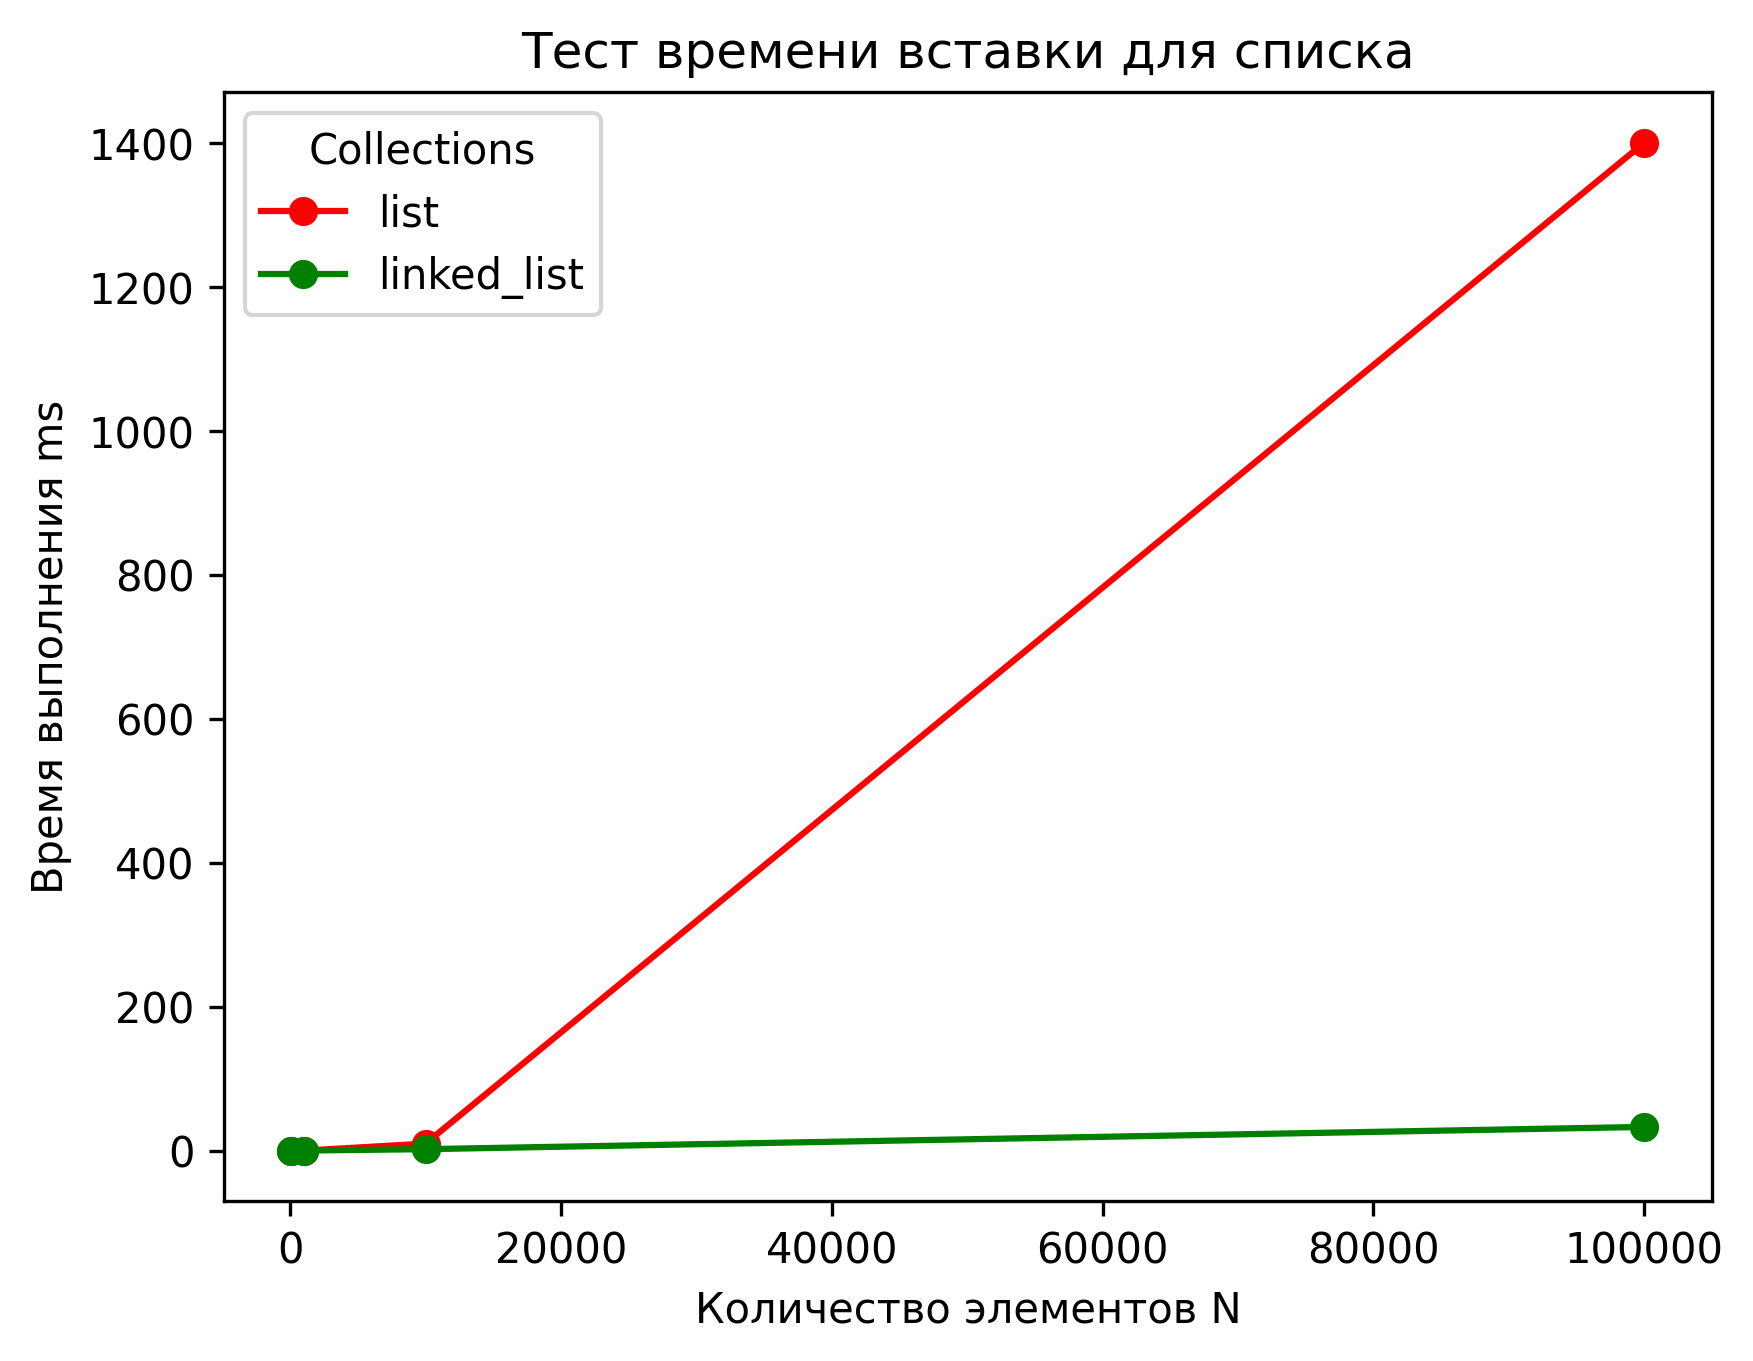
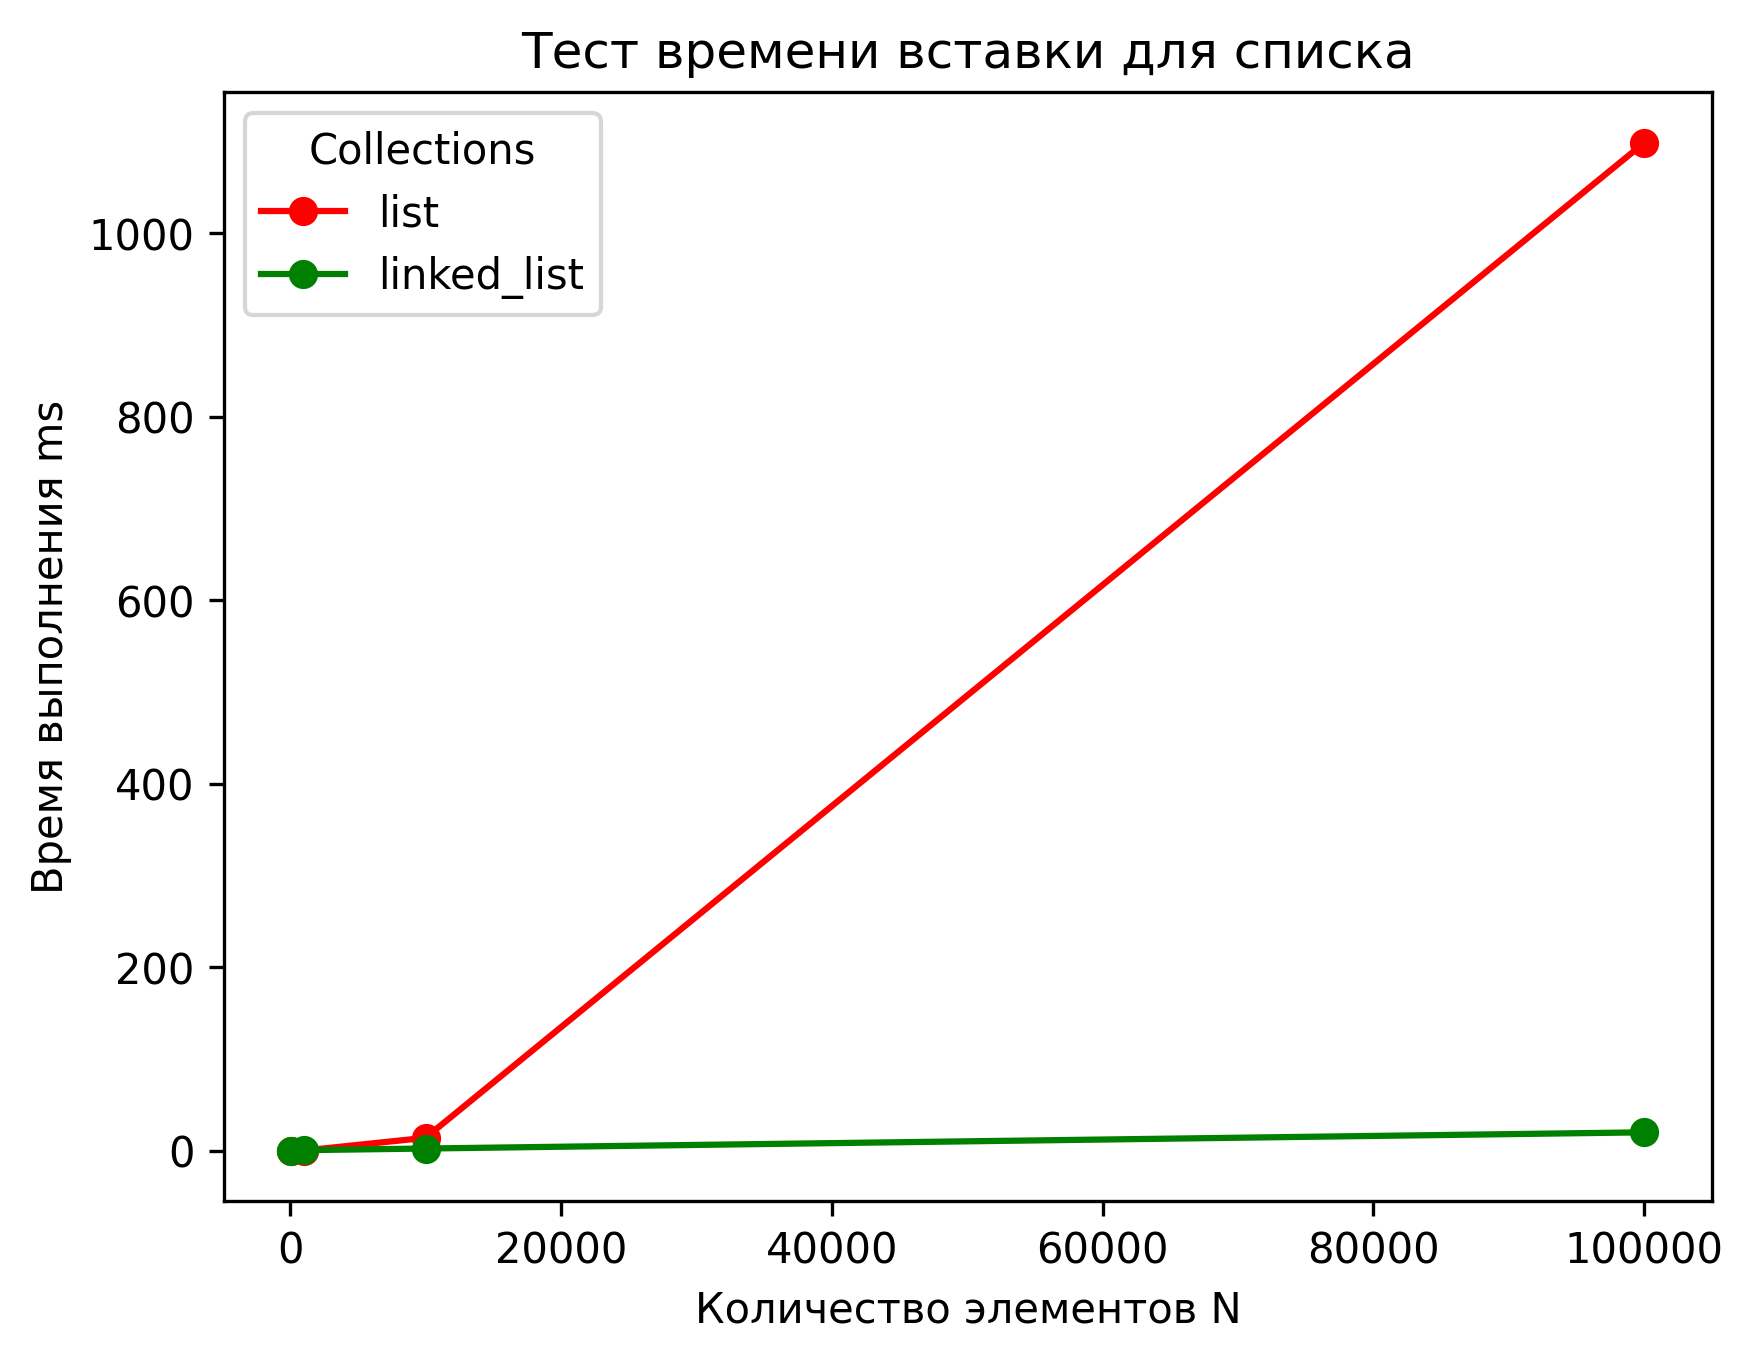
lab-02 png files updated

diff --git a/lab-02/src/modules/perfomance_analysis.py b/lab-02/src/modules/perfomance_analysis.py
@@ -1,7 +1,8 @@
 import timeit
-from modules.linked_list import LinkedList
+
 from collections import deque
 import matplotlib.pyplot as plt
+from modules.linked_list import LinkedList
 
 
 def measure_list_realization(count):
@@ -111,3 +112,6 @@ def Visualization(sizes=[100, 1000, 10000, 100000]):
     print(pc_info)
     print(f"{list_measure} - list \n {linked_list_measure} -linked_list \n"
           f"{list_queue_measures} - list \n {deque_measures} - deque")
+
+
+Visualization()
